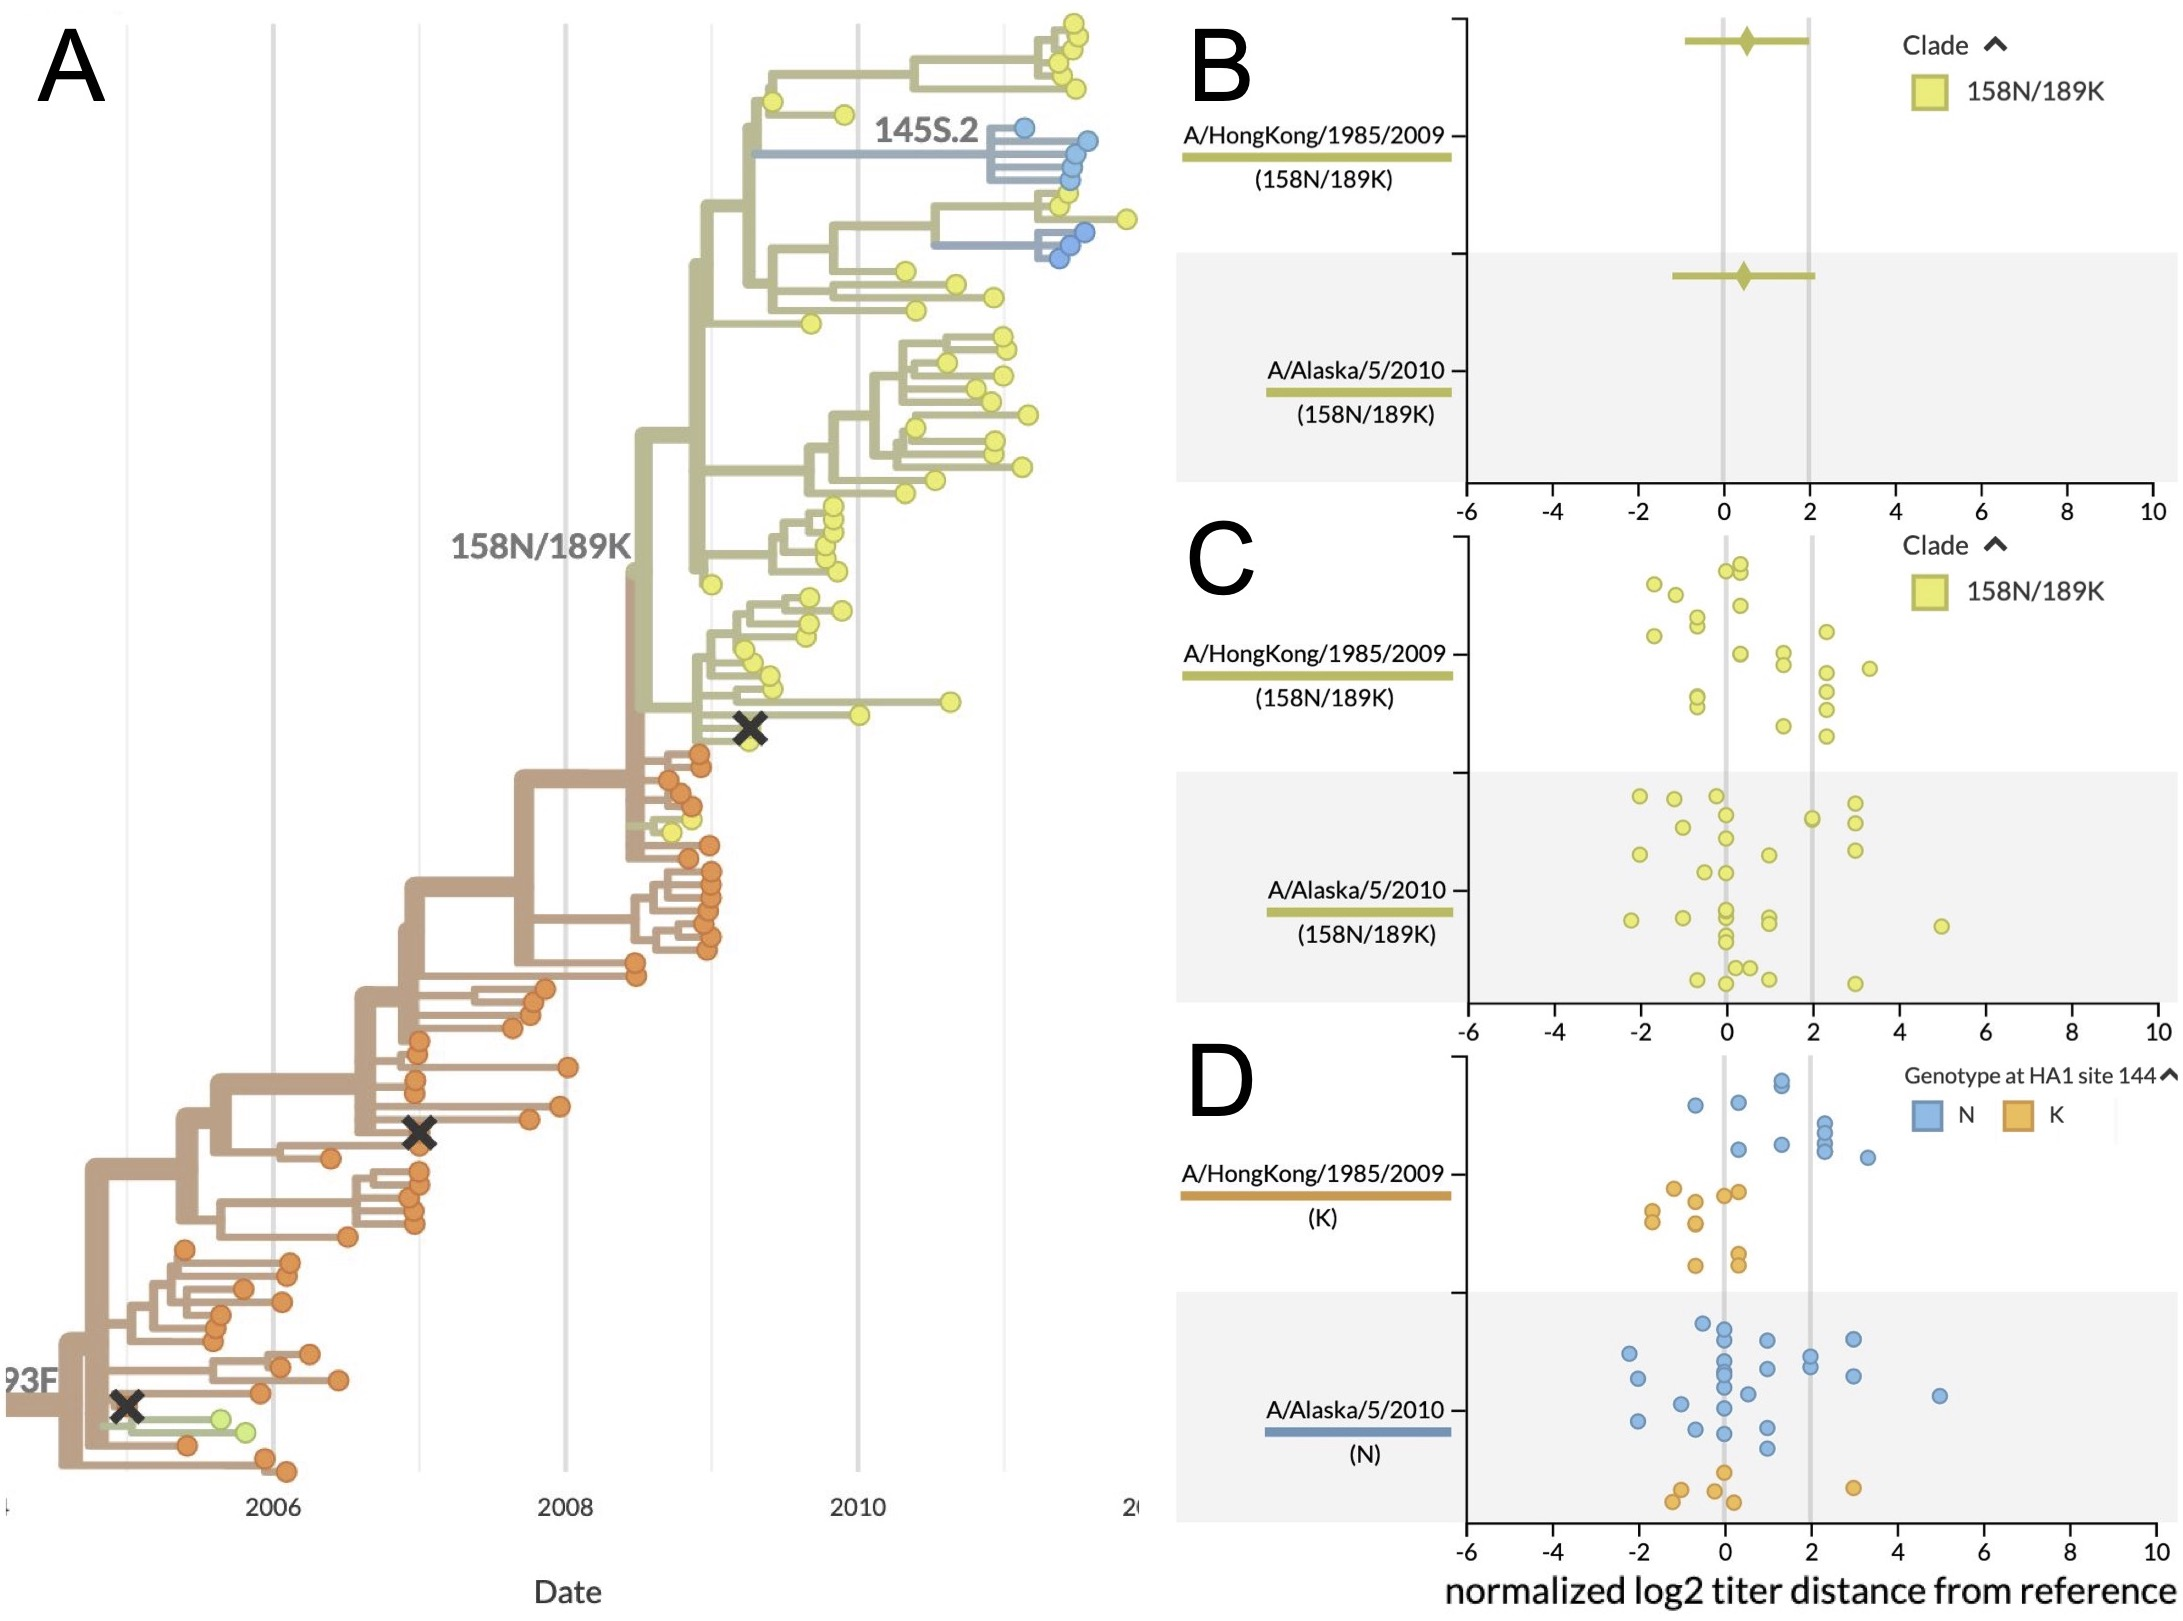
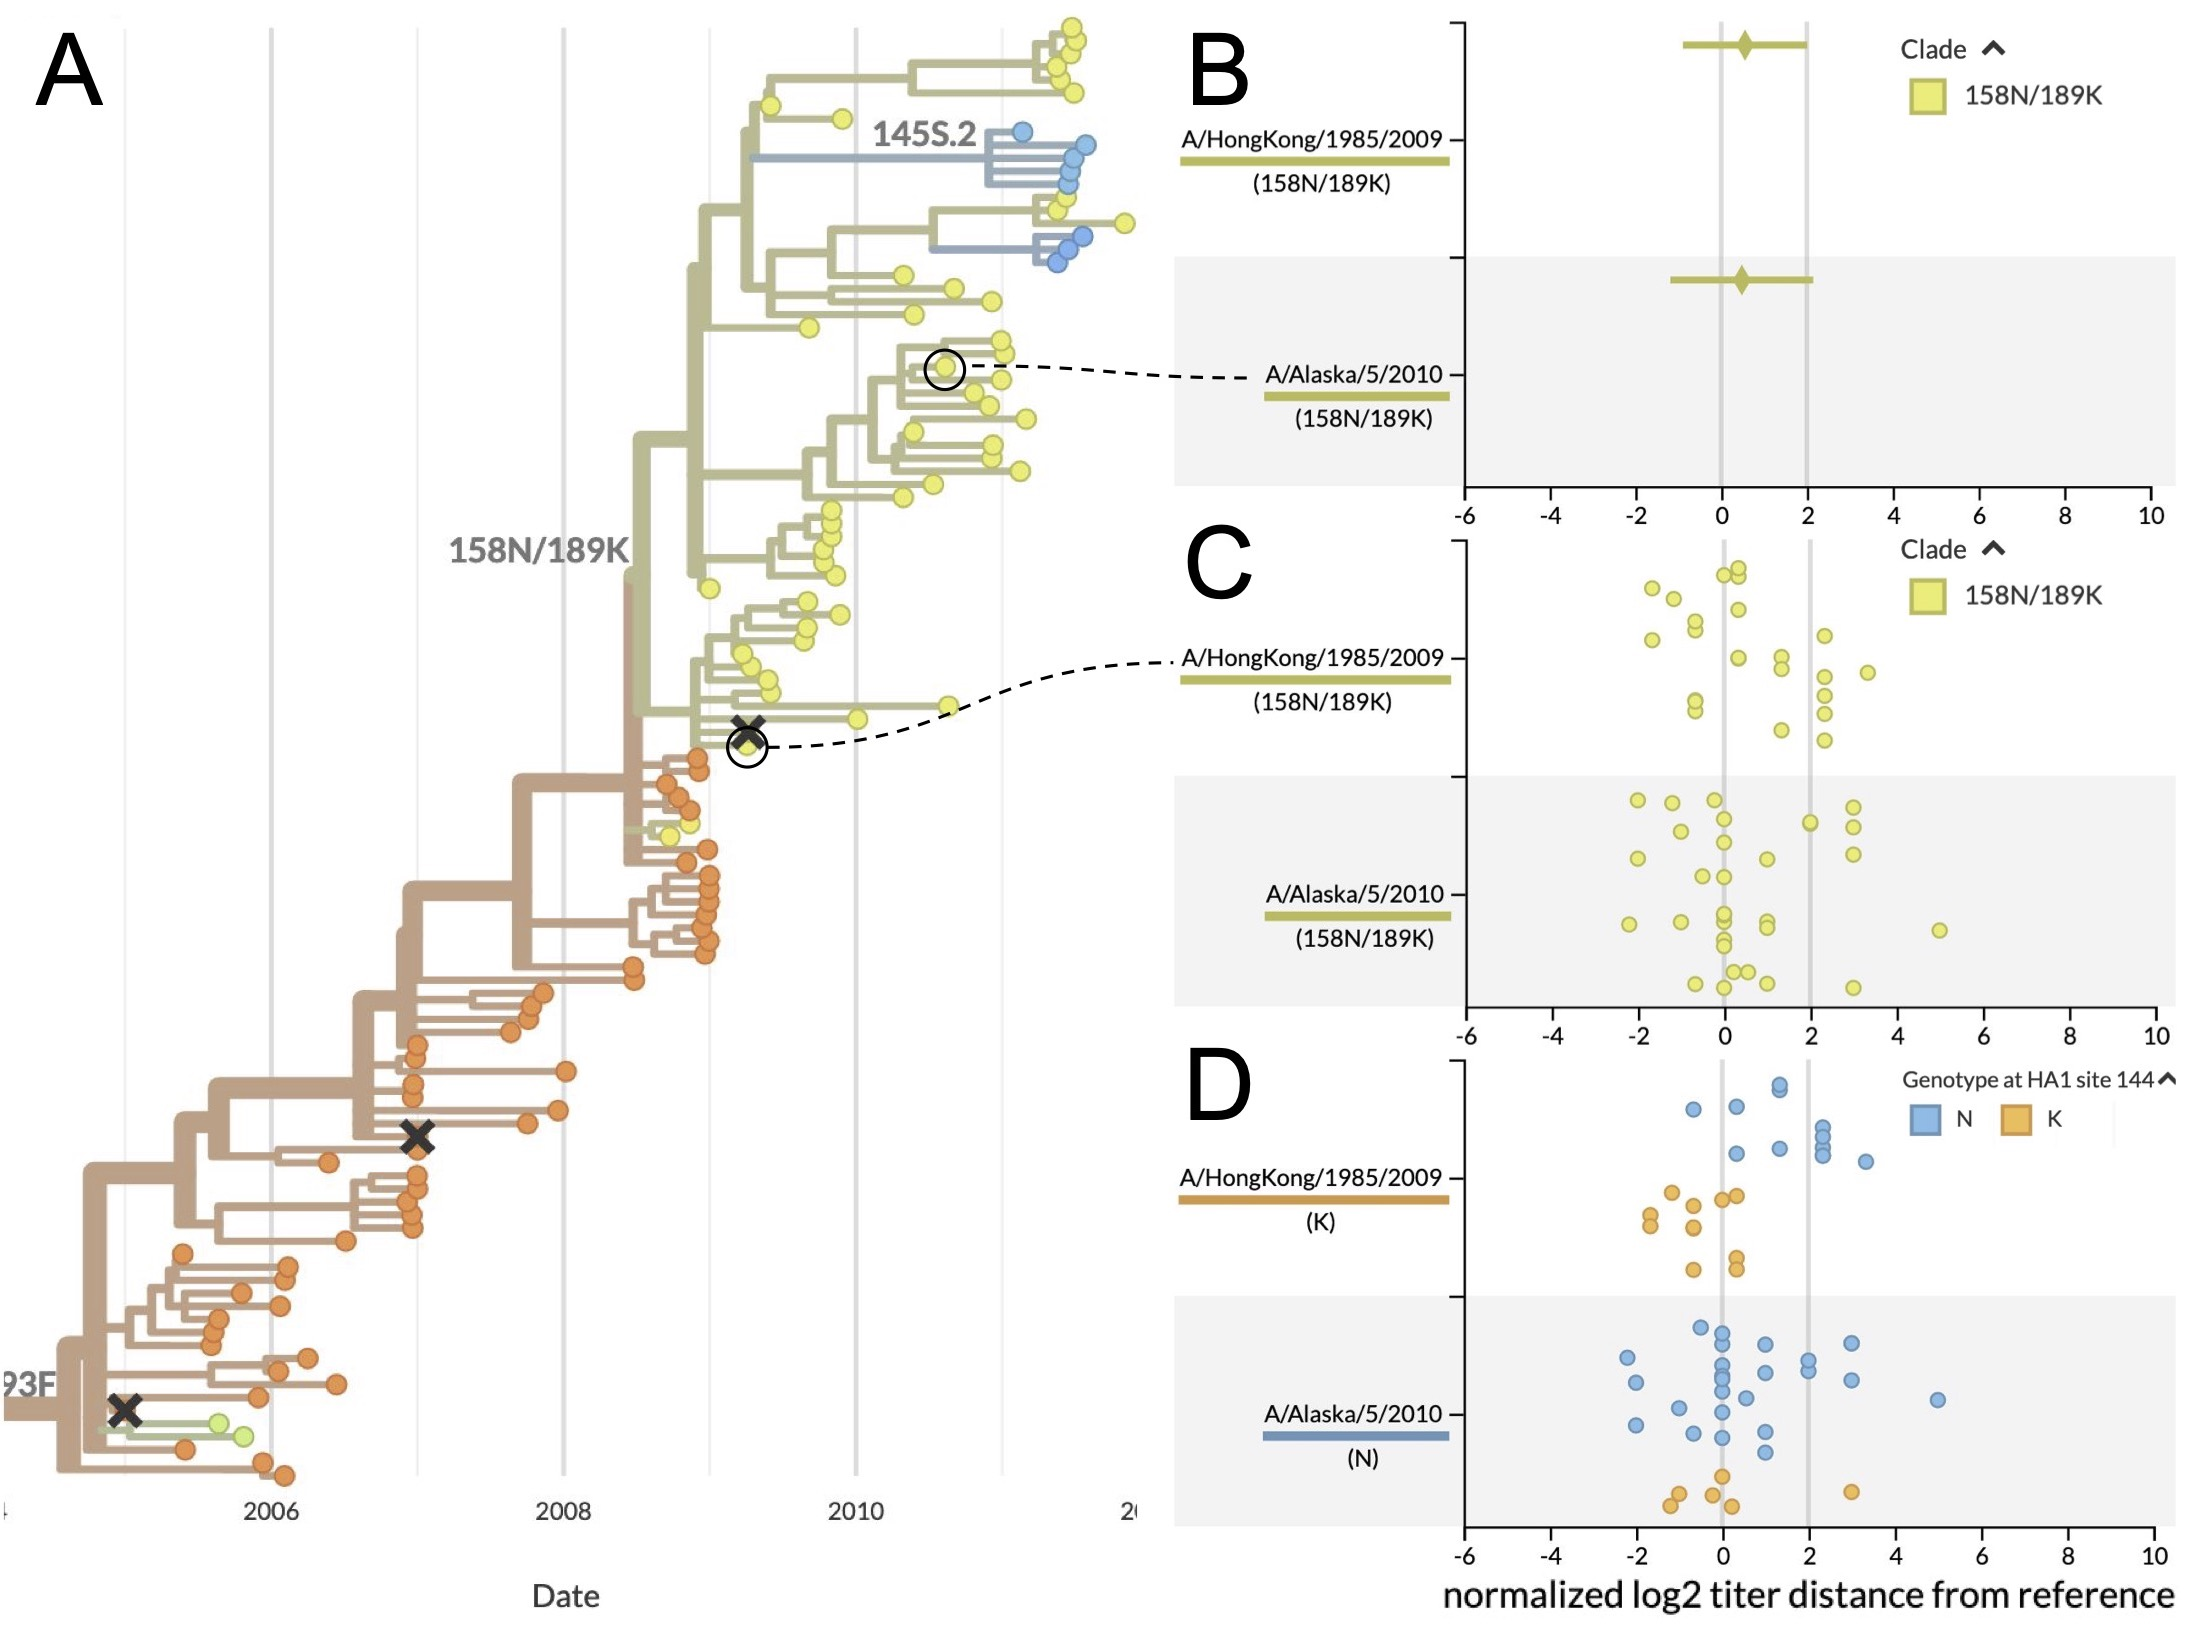
Update Fig 4 and its caption
Adds lines to Figure 4 between reference strains in the tree and the
measurements panels on the right, to annotate the phylogenetic context
of these strains. Updates the caption for Figure 4 to reflect the new
clades and results represented in the figure.

diff --git a/manuscript/measurements-panel.tex b/manuscript/measurements-panel.tex
@@ -380,11 +380,13 @@ n) Clicking on a bar in the diversity panel updates the tree and measurements to
     \includegraphics[width=\textwidth]{figures/figure-4}
   \end{center}
   \caption{
-    Antigenic distances from HI assays between clade 144V reference and test viruses, highlighting two reference viruses with similar mean distances and divergent raw distributions.
-    A) Summary phylogenetic tree with clade 144V highlighted in red.
+    Antigenic distances from HI assays between clade 158N/189K reference and test viruses, highlighting two reference viruses with similar mean distances and raw distributions.
+    A) Summary phylogenetic tree with clade 158N/189K shown in yellowish green.
     B) HI measurements when viewed as mean $\pm$ standard deviation show similar average values for two reference viruses and a wide range of antigenic diversity per reference.
-    C) Viewing the individual measurements reveals a previously hidden bimodal distribution in the measurements for the A/Shanghai/11/1987 reference virus compared to an apparently unimodal distribution for the A/Beijing/353/1989 reference virus.
-    D) Coloring individual measurements by genotypes at the putative antigenic site HA1:135 shows a potential genotype-specific explanation for the two clusters seen in the A/Shanghai/11/1987 measurements and a similar bimodal distribution in the measurements for A/Beijing/353/1989 that was not as clear when coloring by clade alone.
+    C) Viewing the individual measurements reveals a previously hidden bimodal distribution in the measurements for both reference viruses.
+    D) Coloring individual measurements by genotypes at the putative antigenic site HA1:144 shows a potential genotype-specific explanation for the two clusters seen in the A/HongKong/1985/2009 measurements.
+    In contrast, measurements for A/Alaska/5/2010 have a high variance that cannot be explained by the genotype of test viruses at HA1:144.
+    This genotype-specific coloring reveals patterns that were not clear when coloring by clade alone.
   }
   \label{fig:4}
 \end{figure}
